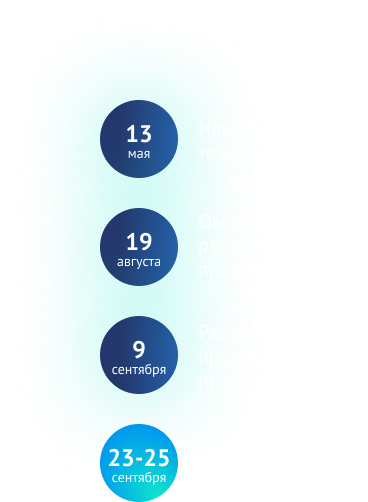
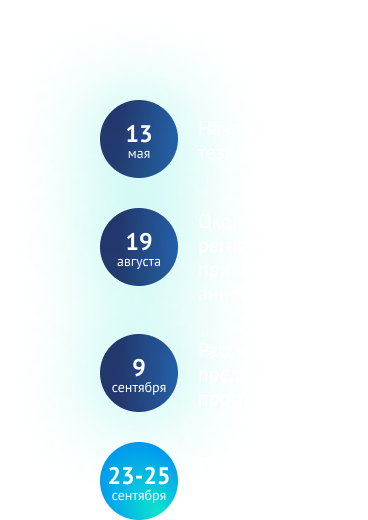
add annotation example

diff --git a/js/header/actions.js b/js/header/actions.js
@@ -93,6 +93,21 @@ if(navbarTezis) navbarTezis.addEventListener('click', function() {
     document.body.removeChild(link);
 })
 
+const navbarAnnotation = document.getElementById('navbar_annotation')
+if(navbarAnnotation) navbarAnnotation.addEventListener('click', function() {
+    const path = '/docs/annotation_example.docx';
+
+    const link = document.createElement('a');
+    link.href = path;
+    link.download = 'annotation_example.docx';
+    link.target = '_blank';
+
+    document.body.appendChild(link);
+    link.click();
+
+    document.body.removeChild(link);
+})
+
 const navbarSignUp = document.getElementById('navbar_sign_up')
 if(navbarSignUp) navbarSignUp.addEventListener('click', function() {
     window.location.href = 'https://docs.google.com/forms/d/e/1FAIpQLSfatxuGtKkXNncB26GQBg0F7biL_2lqGsasfD20kfUe2iQk9w/viewform?usp=sf_link';

diff --git a/js/slide-2/index.js b/js/slide-2/index.js
@@ -6,6 +6,7 @@ const contentDesktop = `
         </div>
         <img src="assets/slide2/image.png" alt="" class="image">
         <img src="assets/slide2/ru-timeline.png" alt="" class="timeline" id="slide-2_timeline">
+        <div class="rec f-mx0_8" id="slide-2_rec"></div>
 `
 
 const contentMobile = `
@@ -20,6 +21,7 @@ const contentMobile = `
                 <img src="./assets/slide2/ru-dates-mobile.png" alt="" class="dates" id="slide-2_dates">
                 <img src="./assets/slide2/image.png" alt="" class="image-mobile">
             </div>
+            <div style="color: white;" class="f-mx0_6" id="slide-2_rec">hello</div>
         </div>
 `
 

diff --git a/js/actions/actions.js b/js/actions/actions.js
@@ -43,6 +43,21 @@ document.getElementById('slide-1_action-5').addEventListener('click', function()
     document.body.removeChild(link);
 });
 
+document.getElementById('slide-1_action-6').addEventListener('click', function() {
+    const path = '/docs/annotation_example.docx';
+
+    const link = document.createElement('a');
+    link.href = path;
+    link.download = 'annotation_example.docx';
+    link.target = '_blank';
+
+    document.body.appendChild(link);
+    link.click();
+
+    document.body.removeChild(link);
+});
+
+
 document.getElementById('logo-tg').addEventListener('click', function() {
     var url = 'https://t.me/karb0n_ru';
 

diff --git a/js/header/navbar.js b/js/header/navbar.js
@@ -24,6 +24,10 @@ const content = `
                 <img src="assets/header/arrow-right.svg" alt="" class="li-logo" />
             </li>
             <li class="ml-30 navbar-action">
+                <div id="navbar_annotation"></div>
+                <img src="assets/header/arrow-right.svg" alt="" class="li-logo" />
+            </li>
+            <li class="ml-30 navbar-action">
                 <div id="navbar_sign_up"></div>
                 <img src="assets/header/arrow-right.svg" alt="" class="li-logo" />
             </li>

diff --git a/index.html b/index.html
@@ -65,7 +65,7 @@
                     <div class="actions-btn f-mx1 w-100" id="slide-1_action-4"></div>
                 </div>
                 <div class="actions-btn f-mx1 w-45" id="slide-1_action-5"></div>
-                <div class="actions-btn f-mx1 w-35 blocked"></div>
+                <div class="actions-btn f-mx1 w-50" id="slide-1_action-6"></div>
             </div>
         </div>
     </div>

diff --git a/styles/slide2.css b/styles/slide2.css
@@ -51,6 +51,14 @@
         height: auto;
         width: 58vw;
     }
+
+    .rec {
+        position: absolute;
+        bottom: 2%;
+        left: var(--page-content-padding);
+        width: 100%;
+        color: white;
+    }
 }
 
 @media screen and (max-width: 1000px) {

diff --git a/styles/slide1.css b/styles/slide1.css
@@ -148,8 +148,8 @@
     .w-95 {
         width: 95%;
     }
-    .w-55 {
-        width: 55%;
+    .w-50 {
+        width: 50%;
     }
     .w-45 {
         width: 45%;
